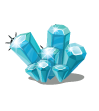
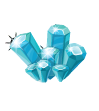
replace images with the images from the game

diff --git a/src/main/java/ui/movable_drawables/ImageResources.java b/src/main/java/ui/movable_drawables/ImageResources.java
@@ -17,13 +17,13 @@ public class ImageResources {
             case MOLECULE:
                 switch (((AutonomousEntity) entity).getType()) {
                     case ALPHA:
-                        return getImage("moleculeA.png", width, height);
+                        return getImage("molecules/alpha-1.png", width, height);
                     case BETA:
-                        return getImage("moleculeB.png", width, height);
+                        return getImage("molecules/beta-1.png", width, height);
                     case GAMMA:
-                        return getImage("moleculeG.png", width, height);
+                        return getImage("molecules/gamma-.png", width, height);
                     case SIGMA:
-                        return getImage("moleculeS.png", width, height);
+                        return getImage("molecules/sigma-.png", width, height);
                     default:
                         throw new IllegalArgumentException("Molecule type is not correct");
                 }
@@ -31,13 +31,13 @@ public class ImageResources {
             case ATOM:
                 switch (((AutonomousEntity) entity).getType()) {
                     case ALPHA:
-                        return getImage("alpha.png", width, height);
+                        return getImage("atoms/alpha.png", width, height);
                     case BETA:
-                        return getImage("atomB.png", width, height);
+                        return getImage("atoms/beta.png", width, height);
                     case GAMMA:
-                        return getImage("atomG.png", width, height);
+                        return getImage("atoms/gama.png", width, height);
                     case SIGMA:
-                        return getImage("atomS.png", width, height);
+                        return getImage("atoms/sigma.png", width, height);
                     default:
                         throw new IllegalArgumentException("Atom type is not correct");
                 }
@@ -46,13 +46,13 @@ public class ImageResources {
             case BLOCKER:
                 switch (((AutonomousEntity) entity).getType()) {
                     case ALPHA:
-                        return getImage("blockerA.png", width, height);
+                        return getImage("blockers/alpha-b.png", width, height);
                     case BETA:
-                        return getImage("blockerB.png", width, height);
+                        return getImage("blockers/beta-b.png", width, height);
                     case GAMMA:
-                        return getImage("blockerG.png", width, height);
+                        return getImage("blockers/gamma-b.png", width, height);
                     case SIGMA:
-                        return getImage("blockerS.png", width, height);
+                        return getImage("blockers/sigma-b.png", width, height);
                     default:
                         throw new IllegalArgumentException("Blocker type is not correct");
                 }
@@ -65,7 +65,7 @@ public class ImageResources {
                     case BETA:
                         return getImage("powerups/+beta-b.png", width, height);
                     case GAMMA:
-                        return getImage("powerups/+gama-b.png", width, height);
+                        return getImage("powerups/+gamma-b.png", width, height);
                     case SIGMA:
                         return getImage("powerups/+sigma-b.png", width, height);
                     default:

diff --git a/src/main/java/ui/movable_drawables/BlockerDrawer.java b/src/main/java/ui/movable_drawables/BlockerDrawer.java
@@ -13,11 +13,12 @@ public class BlockerDrawer implements Drawable {
 
     private final Blocker blocker;
     private final int radius;
-
+    private Image blockerImage;
 
     public BlockerDrawer(Blocker blocker) {
         this.blocker = blocker;
         this.radius = (int) (Configuration.getInstance().getUnitL() * GameConstants.BLOCKER_RADIUS);
+        this.blockerImage = ImageResources.get(blocker, 2 * radius, 2 * radius);
     }
 
     @Override
@@ -34,6 +35,6 @@ public class BlockerDrawer implements Drawable {
         }
 
         Coordinates drawingCoord = MathUtils.drawingCoordinates(blocker.getCoordinates(), radius);
-        g.fillRect(drawingCoord.getPoint().x, drawingCoord.getPoint().y, 2 * radius, 2 * radius);
+        g.drawImage(blockerImage, drawingCoord.getPoint().x, drawingCoord.getPoint().y, null);
     }
 }
